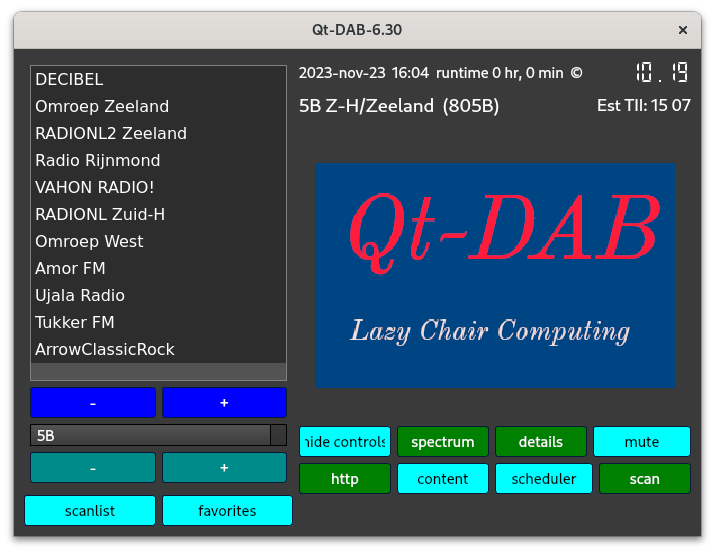
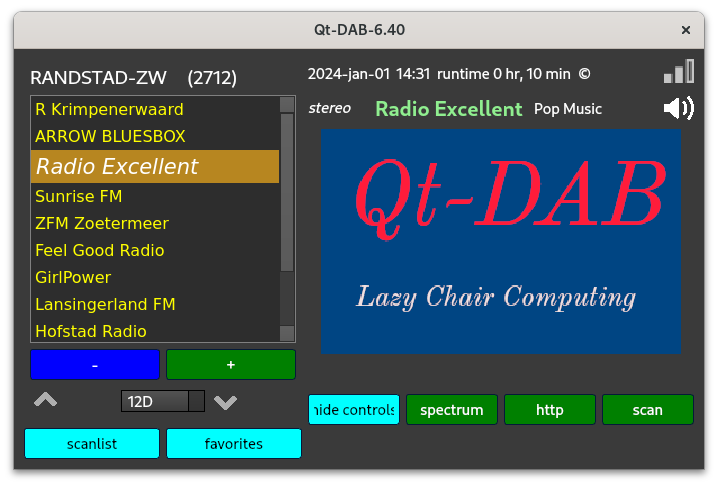
update README

diff --git a/README.md b/README.md
@@ -9,7 +9,28 @@
 
 **Qt-DAB-6** is software for Linux, Windows, MacOS and Raspberry Pi for listening to terrestrial **Digital Audio Broadcasting (DAB and DAB+)**.
 
-![6.3](/qt-dab-6.3.png?raw=true)
+![6.4](/qt-dab-6.4.png?raw=true)
+
+Differences with the previous versions
+
+In Qt-DAB 6.40 there are visible changes to the main widget and to
+the configuration and control widget.
+In the main widget the *content* button, the *technical data* button
+and the *mute* button are removed. The *schedule* button is moved
+to the configuration and control widget.
+The functionality of the removed buttons is not removed.
+
+ * touch the name of the ensemble on top of the left part of the main widget
+and the content table appears (or disappears)
+
+ * touch the name of the selected service on the right half of the widget
+and the technical widget will appear (or disappear)
+
+ *  the icon of the loudspeaker will show whether or not a sound channel
+is selected. Touching the icon will control the muting
+
+Furthermore, the scanning function is re-implemented and the *scan* button
+on the main widget now controls the visibility of a *scan-control widget*.
 
 Table of Contents
 =================================================================
@@ -17,6 +38,7 @@ Table of Contents
 * [Introduction](#introduction)
 * [Features](#features)
 * [Widgets and scopes](#widgets-and-scopes-for-qt-dab)
+* [Scan control](#scan-control)
 * [Showing a map for TII](#a-note-on-showing-a-map)
 * [Documentation](#Documentation)
 * [Installation on Windows](#Installation-on-Windows)
@@ -33,15 +55,8 @@ Introduction
 **Qt-DAB-XX** is a rich implementation of a DAB decoder for use on Linux and Windows based PCs, including some ARM based boards, such as the Raspberry PI 2 and up. It can be used with a variety of SDR devices, including DABsticks, all models of the SDRplay, Airspy etc.
 
 
-The current version is 6.3. The versions 5.4 and 4.7 are - since they were subject to changes as well-  renamed to 5.5 and 4.8.
-
-For all three versions, the "preset" handling is improved, the "presets" 
-renamed to "favorites", with the "favorites" visible on a separate widget.
-
-Internally, there are numerous changes, most of them to improve
-functionality and performance.
-An example is experimenting with  decoding algorithms, or
-the ability to use double precision computations for the signal processing.
+The current version is 6.40. The versions 5.5 and 4.8 are still available
+and can be built, using the same set of sources as the current 6.40.
 
 Precompiled versions for Linux-x64 (AppImage) and Windows (an installer) are available. 
 
@@ -102,7 +117,7 @@ Widgets and scopes
 
 ![6.2](/qt-dab-6-main-widget.png)
 
-The full GUI for Qt-DAB 6.30 consists of a handful of widgets; 
+The full GUI for Qt-DAB 6.40 consists of a handful of widgets; 
 a single widget, the *main* widget is always visible and visibility of the
 other wigets (spectrum widget, technical data widget and configuration-and-control widget) is stricly under user control by settings in the main widget.
 
@@ -201,6 +216,20 @@ that right clicking adds the service name to the favorites. Setting the
 most left checkbox will revert this.
 The second selector, a combobox with only a few items allows selection from
 some experimental decoder implementations.
+
+Scan control
+=======================================================================
+
+![6.1](/scan-sidget.png?raw=true)
+
+A separate widget - visibility under control of the *scan* button on the
+main widget - provides the control ob scanning.
+
+The *show* button controls the visibility of the *skiptable*, skiptables
+can be load and stored in either the ".ini" file (use the "...default" buttons,
+or can be kept as xml file on a user defined place (the other load/store buttons).
+
+The small table at the bottom of the widget is just for convenience, on scanning it will display the number of services found in the channels visited.
 
 A note on showing a map
 =======================================================================
